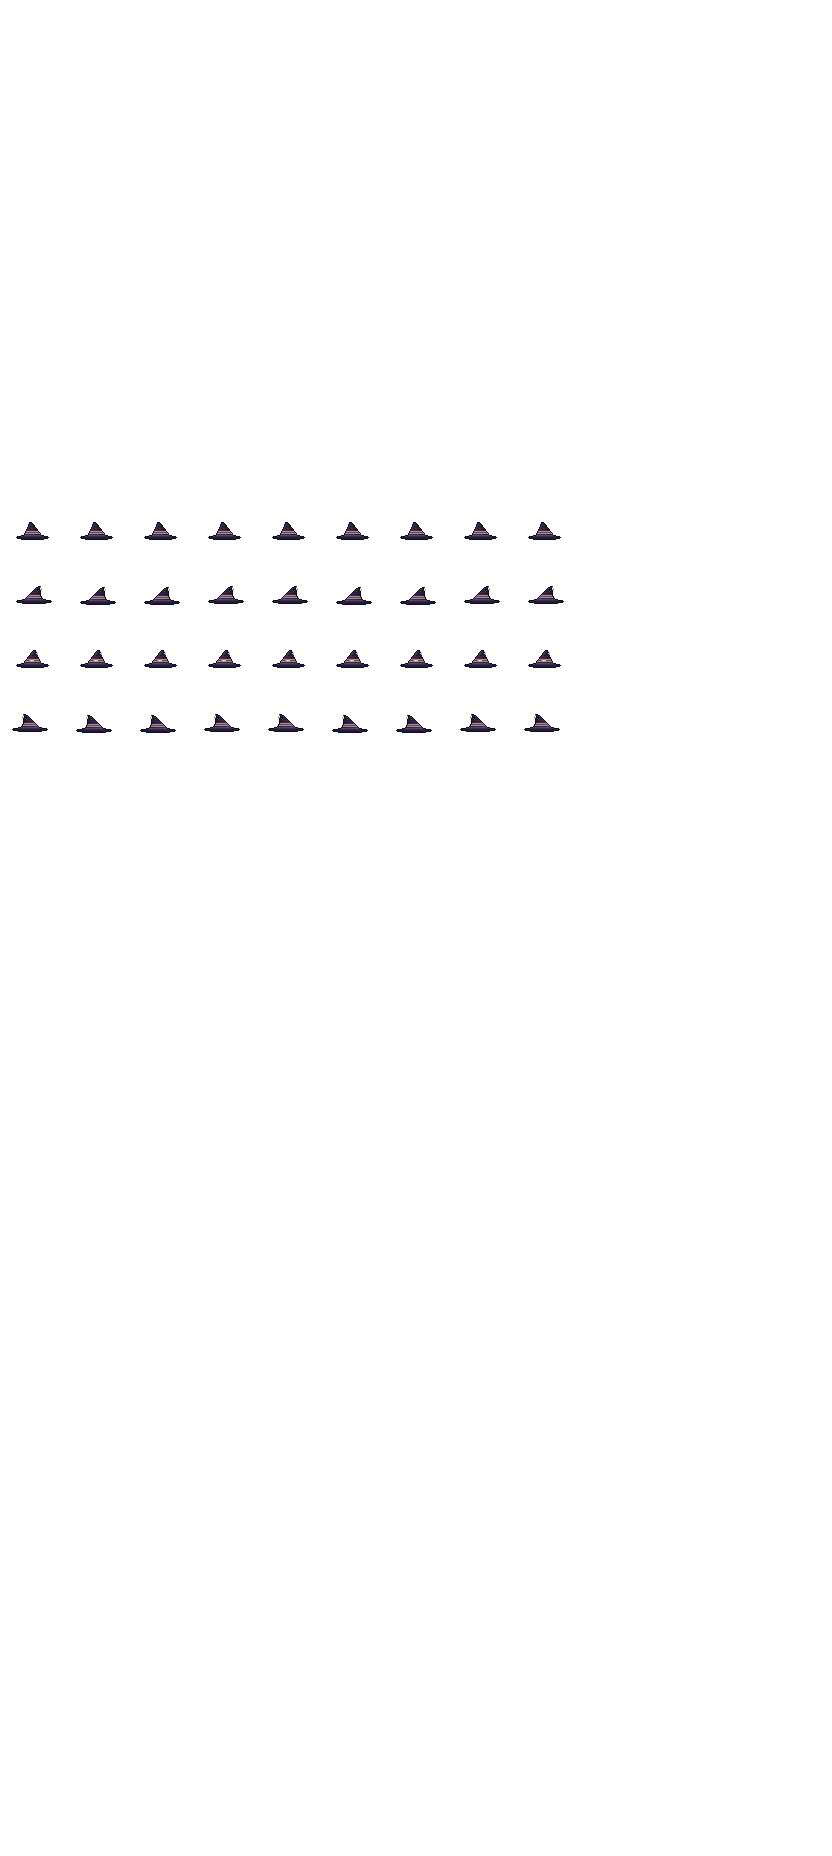
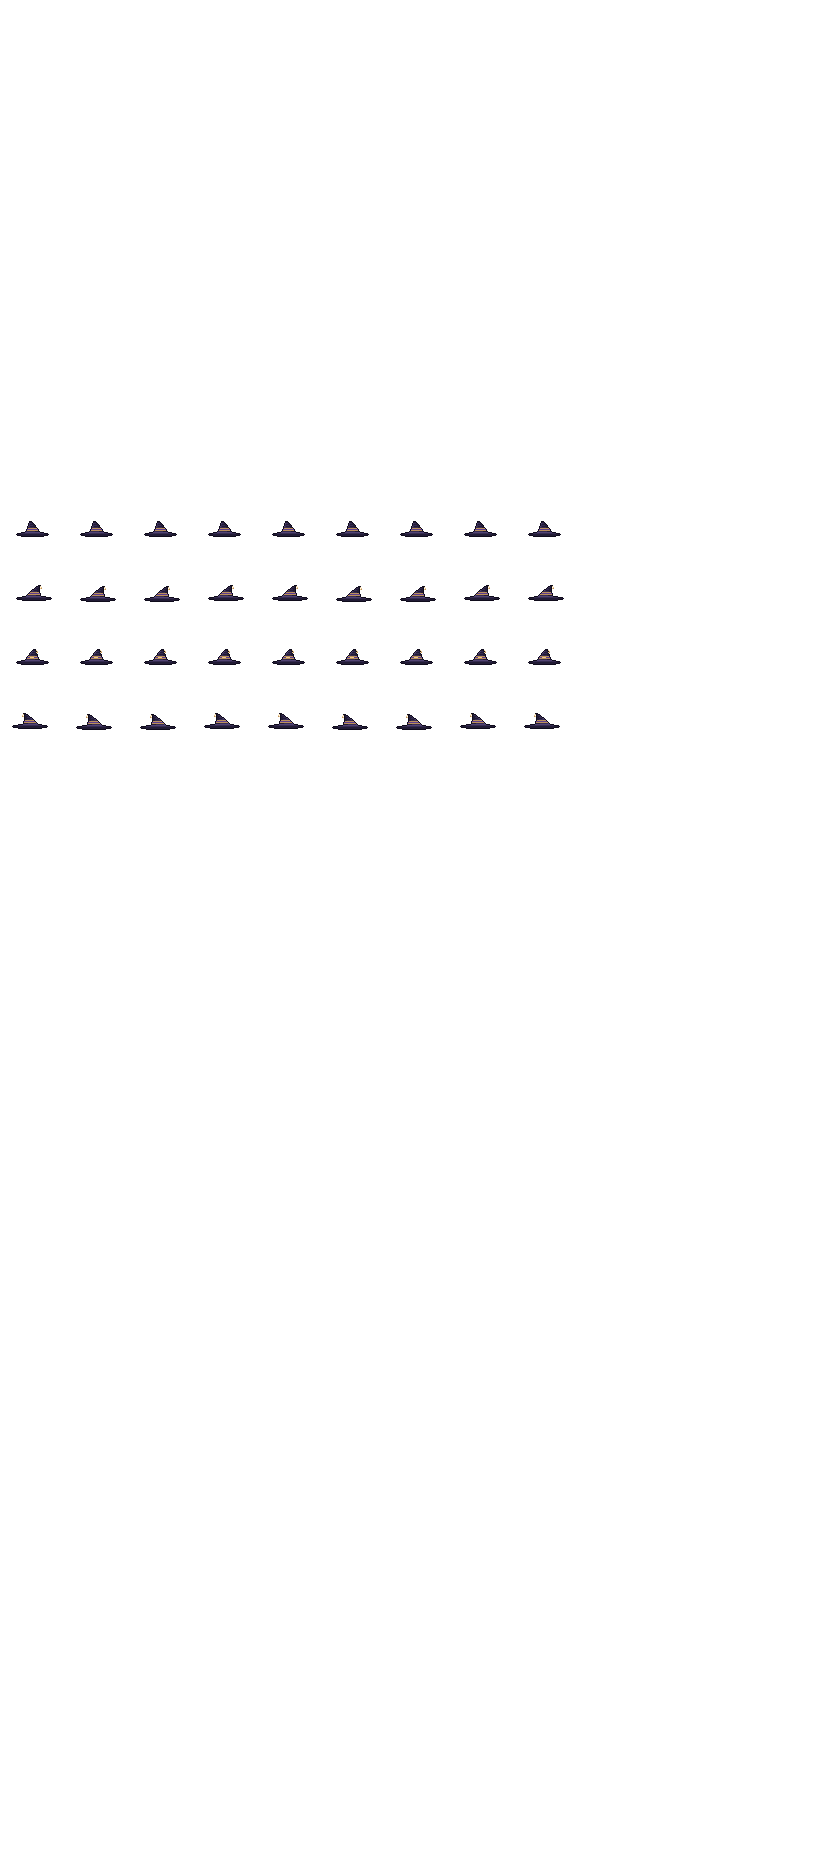
黑魔法師帽整頂往上移 3 排（帽沿 top+5→top+2；頭髮切線跟著上移 3，hairCutDy 不用改）；尖頂不能超出格子上緣，改 11 排

diff --git a/tools/gen_blm.py b/tools/gen_blm.py
@@ -253,12 +253,12 @@ def _head_box(kind, step):
 
 
 def hat_pixels(kind, cx, top):
-    """帽子的 {(x, y): 色}；cx＝頭的中心欄（小數）、top＝頭頂排（素體 body 的第一排）。帽子從 top-8 排開始：13 排尖頂＋5 排帽沿。"""
+    """帽子的 {(x, y): 色}；cx＝頭的中心欄（小數）、top＝頭頂排（素體 body 的第一排）。帽子從 top-9 排開始：11 排尖頂＋5 排帽沿。"""
     R = {'front': 16.5, 'back': 16.5, 'left': 17.5}[kind]          # 帽沿半寬（2026-11-26 使用者要求左右各加寬 1）
     lean = {'front': 2.0, 'back': -2.0, 'left': 5.0}[kind]           # 尖頂往哪邊彎（側面往後＝往右）
     center = {'front': cx, 'back': cx, 'left': cx + 2.0}[kind]
-    y_top = top - 8                                                    # 2026-11-26 使用者要求帽子比原本（top-8）低 2 排；頭髮切掉的位置不變（款式的 hairCutDy）
-    CONE = 13                                                           # 尖頂 13 排（2026-11-26 使用者要求往上拉長 2 排；帽沿位置不變）
+    y_top = top - 9                                                    # 2026-11-26 使用者要求帽子比原本（top-8）低 2 排；頭髮切掉的位置不變（款式的 hairCutDy）
+    CONE = 11                                                           # 尖頂 11 排（2026-11-26 使用者要求整頂帽子往上移 3 排：帽沿從 top+5 變 top+2；頂端不能超出格子上緣〔頭頂 top 最小 9〕，所以尖頂比之前的 13 排少 2 排）
     sil = {}
     for r in range(CONE):
         hw = 1.0 + r * 0.6
